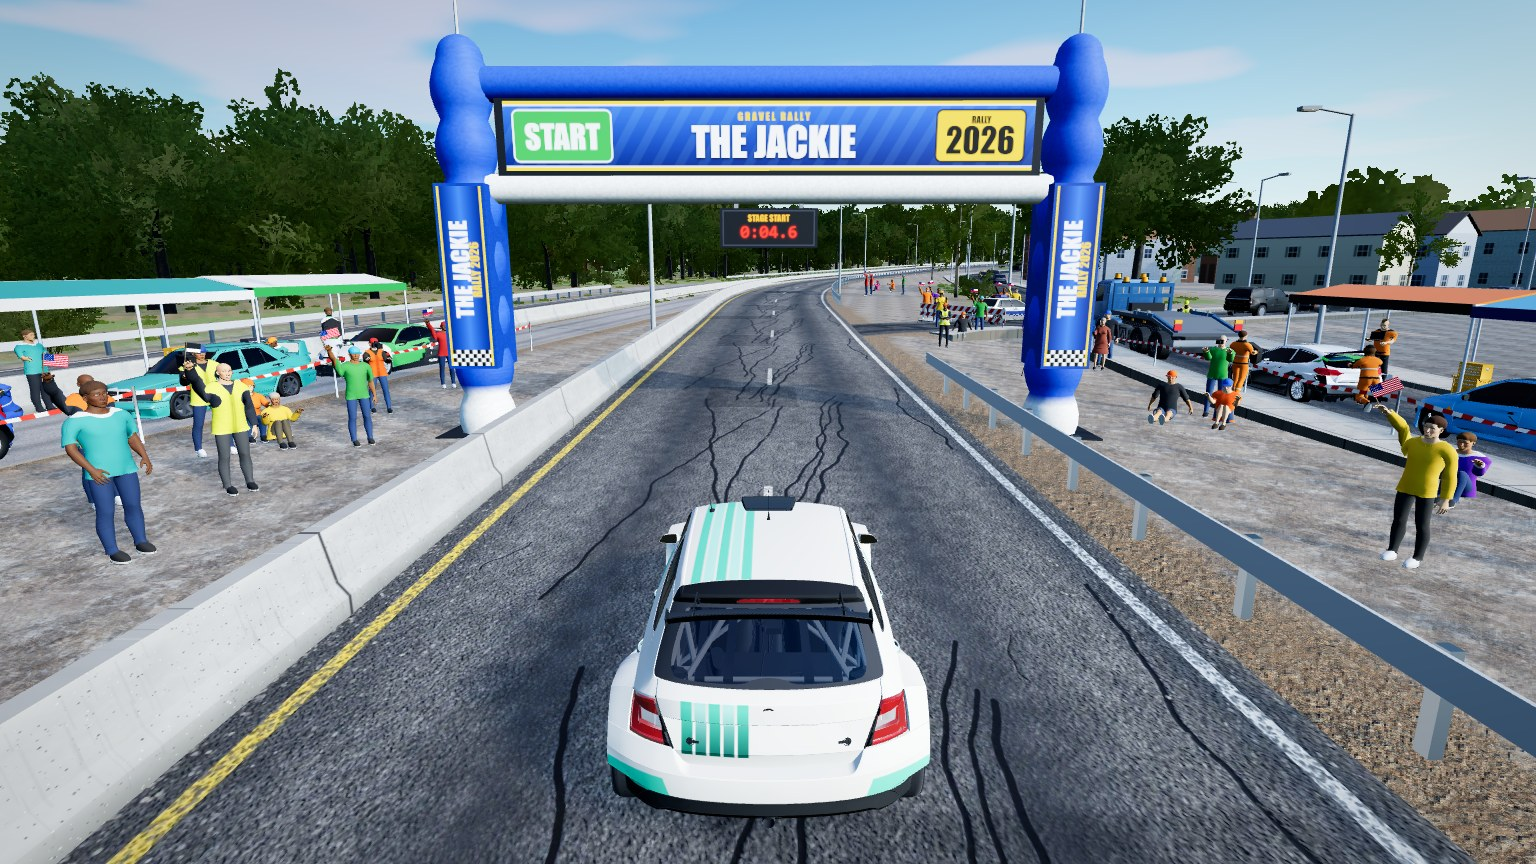
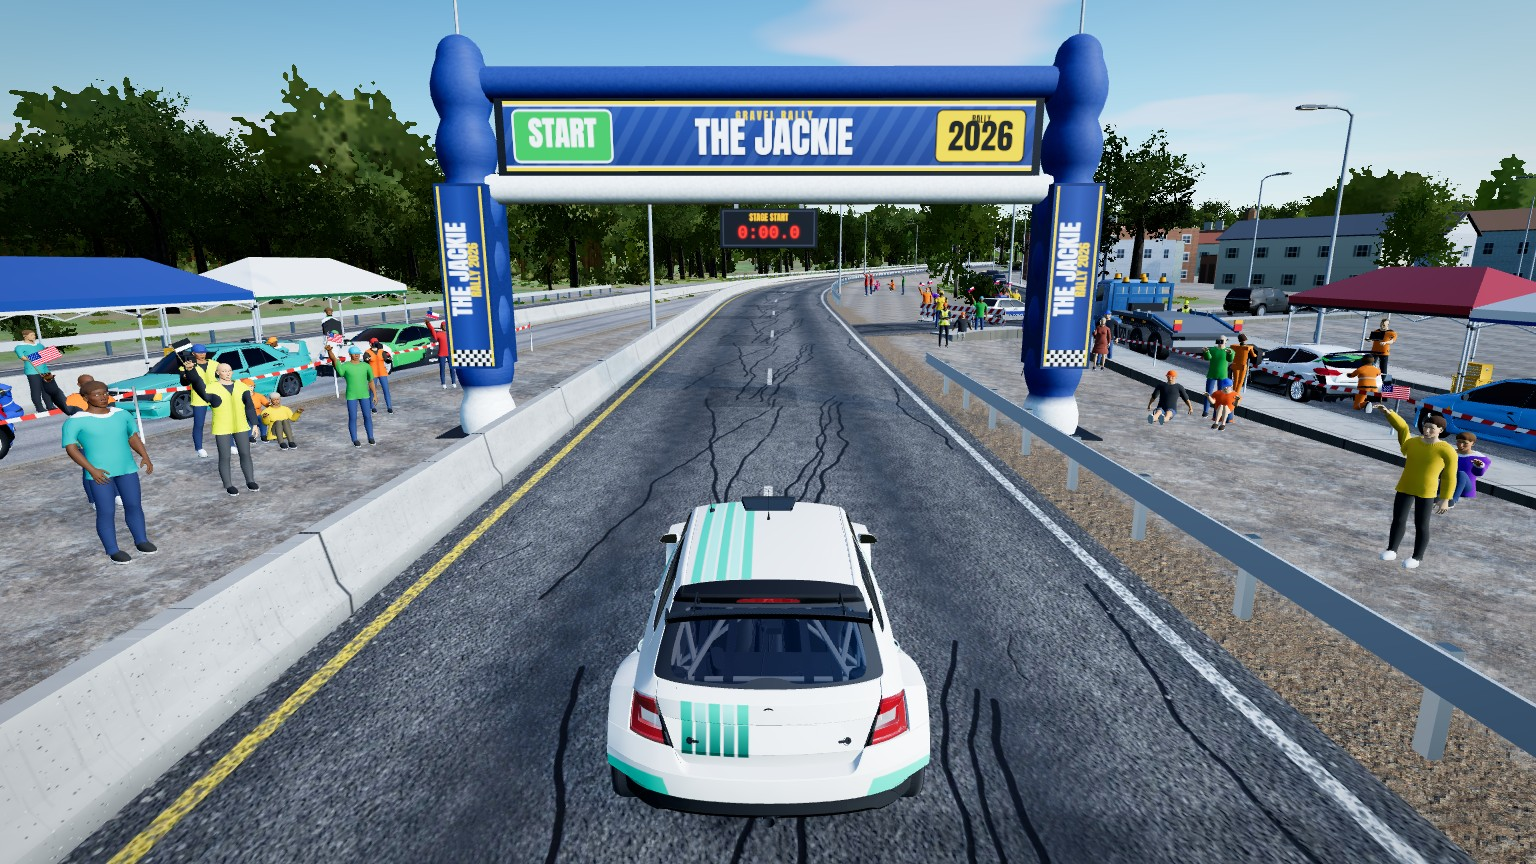
Rally service park: review fixes
- Gazebo hip ends face out, trusses above head height, leg colliders on the new legs
- Trailer: winch post and handbrake stand on the frame, chocks against the tyres, ramp rungs lie in the ramp
- One event blue for tents, arch, start sign and marshal tabard
- README start pictures retaken

diff --git a/src/games/rally/assets/builders/service.ts b/src/games/rally/assets/builders/service.ts
@@ -295,10 +295,14 @@ export const carTrailer: AssetBuilder = ({ variant, lod }) => {
           steel,
         ),
       );
-    for (let i = 0; i < 9; i++) {
-      const d = 0.08 + (i * (RAMP - 0.16)) / 8;
+    // Rungs: flat bars lying in the ramp's plane.
+    for (let i = 0; i < 10; i++) {
+      const [x, y, z] = up(0.08 + (i * (RAMP - 0.16)) / 9, foot[2]);
       parts.push(
-        bar(up(d, foot[2] - 0.24), up(d, foot[2] + 0.24), 0.07, 0.014, plate),
+        solid(
+          new BoxGeometry(0.014, 0.085, 0.48).rotateZ(-lean).translate(x, y, z),
+          plate,
+        ),
       );
     }
     parts.push(
@@ -332,8 +336,8 @@ export const carTrailer: AssetBuilder = ({ variant, lod }) => {
       box(0.02, 0.075, 0.07, XB - 0.035, 0.42, s * 0.885, '#d88a1a'),
       box(0.07, 0.03, 0.012, 1.7, 0.42, s * 0.961, '#d88a1a'),
       box(0.07, 0.03, 0.012, -2.2, 0.42, s * 0.961, '#d88a1a'),
-      // Rubber chocks before and behind the wheels.
-      ...[AXLES[0] - 0.37, AXLES[1] + 0.37].map((x) =>
+      // Rubber chocks before and behind the wheels, their points against the tyres.
+      ...[AXLES[0] - 0.255, AXLES[1] + 0.255].map((x) =>
         solid(
           new CylinderGeometry(0.1, 0.1, 0.16, 3)
             .rotateX(Math.PI / 2)
@@ -364,9 +368,9 @@ export const carTrailer: AssetBuilder = ({ variant, lod }) => {
     ),
     bar([3.86, 0.49, 0], [4.0, 0.55, 0], 0.035, 0.02, DARK),
     box(0.05, 0.06, 0.8, 3.0, 0.42, 0, steel),
-    // Handbrake lever.
-    bar([3.5, 0.46, 0], [3.36, 0.74, 0], 0.02, 0.025, steel),
-    bar([3.36, 0.74, 0], [3.33, 0.84, 0], 0.03, 0.035, DARK),
+    // Handbrake lever on the coupling housing.
+    bar([3.74, 0.46, 0], [3.6, 0.74, 0], 0.02, 0.025, steel),
+    bar([3.6, 0.74, 0], [3.57, 0.84, 0], 0.03, 0.035, DARK),
     // Jockey wheel clamped beside the drawbar, its crank on top.
     solid(
       new CylinderGeometry(0.028, 0.028, 0.5, 8).translate(3.3, 0.55, 0.24),
@@ -384,6 +388,8 @@ export const carTrailer: AssetBuilder = ({ variant, lod }) => {
     box(0.04, 0.34, 0.04, XF, 0.64, 0.93, steel),
     box(0.04, 0.34, 0.04, XF, 0.64, -0.93, steel),
     box(0.04, 0.04, 1.9, XF, 0.81, 0, steel),
+    // Its foot is a cross member between the drawbar sides.
+    box(0.06, 0.06, 1.2, XF + 0.3, 0.42, 0, steel),
     box(0.05, 0.5, 0.05, XF + 0.3, 0.7, 0, steel),
     box(0.16, 0.13, 0.12, XF + 0.3, 0.98, 0, DARK),
     bar([XF + 0.3, 0.98, 0.07], [XF + 0.42, 1.08, 0.07], 0.016, 0.02, steel),
@@ -425,8 +431,8 @@ function gazebo(variant: number, lod: number, long: boolean): BufferGeometry[] {
   const near = lod === 0;
   const L = long ? 6 : 3;
   const W = 3;
-  const EAVE = 2.3;
-  const PEAK = 3.16;
+  const EAVE = 2.45;
+  const PEAK = 3.3;
   const DROP = 0.27;
   const hx = L / 2 + 0.02;
   const hz = W / 2 + 0.02;
@@ -439,13 +445,13 @@ function gazebo(variant: number, lod: number, long: boolean): BufferGeometry[] {
   // Canopy: hip ends, the long sides up to the peak / ridge.
   const tris: P3[][] = [
     [
-      [-hx, EAVE, hz],
       [-hx, EAVE, -hz],
+      [-hx, EAVE, hz],
       [p0, PEAK, 0],
     ],
     [
-      [hx, EAVE, -hz],
       [hx, EAVE, hz],
+      [hx, EAVE, -hz],
       [p1, PEAK, 0],
     ],
   ];
@@ -494,8 +500,9 @@ function gazebo(variant: number, lod: number, long: boolean): BufferGeometry[] {
   // Legs: the outer tube from the eave, the thinner inner one down to a foot plate, a weight on the foot.
   const xs = long ? [-L / 2, 0, L / 2] : [-L / 2, L / 2];
   const legZ = W / 2 - 0.05;
+  // The trusses hang 0.4 m: their low joints stay above head height (crew stand along the tent's edge).
   const TOP = EAVE - 0.03;
-  const LOW = EAVE - 0.58;
+  const LOW = EAVE - 0.43;
   for (const x of xs)
     for (const z of [legZ, -legZ]) {
       const lx = x - Math.sign(x) * 0.05;

diff --git a/src/games/rally/assets/catalog.ts b/src/games/rally/assets/catalog.ts
@@ -1010,13 +1010,14 @@ export const ASSET_CATALOG: AssetMeta[] = [
       'Pop-up tent 3 x 3 m, open sides: peaked canopy with a valance on a folding frame, weighted feet (variant = team, 12 = white timekeeper tent). Solid legs.',
     variants: 13,
     lods: PROP_LODS,
-    colliders: [-1.5, 1.5].flatMap((x) =>
+    // The legs with the weights on their feet.
+    colliders: [-1.45, 1.45].flatMap((x) =>
       [-1.45, 1.45].map((z) => ({
         kind: 'cylinder' as const,
         x,
         z,
-        r: 0.06,
-        h: 2.5,
+        r: 0.18,
+        h: 2.45,
       })),
     ),
   },
@@ -1028,13 +1029,13 @@ export const ASSET_CATALOG: AssetMeta[] = [
       'Pop-up tent 6 x 3 m (long side along X), open sides: canopy with a ridge between two peaks, valance, folding frame, weighted feet (variant = team, 12 = white timekeeper tent). Solid legs.',
     variants: 13,
     lods: PROP_LODS,
-    colliders: [-3, 0, 3].flatMap((x) =>
+    colliders: [-2.95, 0, 2.95].flatMap((x) =>
       [-1.45, 1.45].map((z) => ({
         kind: 'cylinder' as const,
         x,
         z,
-        r: 0.06,
-        h: 2.5,
+        r: 0.18,
+        h: 2.45,
       })),
     ),
   },

diff --git a/src/games/rally/assets/builders/people.ts b/src/games/rally/assets/builders/people.ts
@@ -59,7 +59,7 @@ import type {
 } from './people-looks';
 import { dress } from './people-wear';
 import type { AssetBuilder } from '../types';
-import { TEAMS } from './teams';
+import { EVENT_COLOR, TEAMS } from './teams';
 
 /**
  * People kit. Close up (LOD 0 / 1) a figure is one of two base bodies (people-body.ts: CC BY models, credits in
@@ -1704,14 +1704,14 @@ export const driver: AssetBuilder = ({ seed, variant, lod }) => {
   return finishFigure(pose, o, lod, rng);
 };
 
-/** Marshals and officials: orange / yellow / white tabards with reflective bands, caps, flags and signs. */
+/** Marshals and officials: orange / yellow / white / event-blue tabards with reflective bands, caps, flags and signs. */
 const MARSHAL_VESTS = [
   '#f05a10',
   '#f05a10',
   '#d4e21c',
   '#d4e21c',
   '#f2f2f2',
-  '#2a6fd0',
+  EVENT_COLOR,
 ];
 /** Variants 0-11 (pose = variant % 4); 12+ cycle these. */
 const MARSHAL_POSES: PoseName[] = ['stand2', 'point', 'pockets', 'phone'];

diff --git a/src/games/rally/engine/stage-sign-textures.ts b/src/games/rally/engine/stage-sign-textures.ts
@@ -1,9 +1,11 @@
 import {
   CanvasTexture,
+  Color,
   LinearMipmapLinearFilter,
   SRGBColorSpace,
   type Texture,
 } from 'three';
+import { EVENT_COLOR } from '../assets/builders/teams';
 
 /**
  * Canvas textures of the stage furniture (world/stage-sign-mesh.ts): the start / finish gantry
@@ -124,10 +126,14 @@ function speedStripes(
   ctx.restore();
 }
 
+/** A darker shade of a colour (the foot of a banner's gradient). */
+const shade = (hex: string, k: number): string =>
+  `#${new Color(hex).multiplyScalar(k).getHexString()}`;
+
 const THEME = {
   start: {
-    top: '#3a68ad',
-    bottom: '#17305c',
+    top: EVENT_COLOR,
+    bottom: shade(EVENT_COLOR, 0.55),
     accent: '#f5c518',
     word: 'START',
   },

diff --git a/src/games/rally/assets/builders/teams.ts b/src/games/rally/assets/builders/teams.ts
@@ -112,8 +112,8 @@ export const TEAMS: readonly Team[] = [
   },
 ];
 
-/** The organiser's colour (start arch, timekeeper tent): a quiet blue next to white. */
-export const EVENT_COLOR = '#2f5a9c';
+/** The organiser's colour (start arch and its banners, timekeeper tent, officials' blue tabards): the dressing blue. */
+export const EVENT_COLOR = DRESS.blue;
 
 /** Trim on the dressing (thin stripes, flag tips): a mid grey that sits on both neutrals. */
 const TRIM = '#8d9096';
